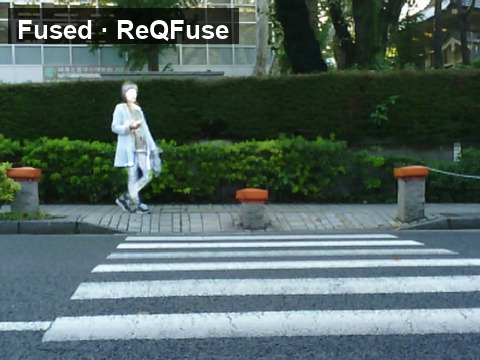
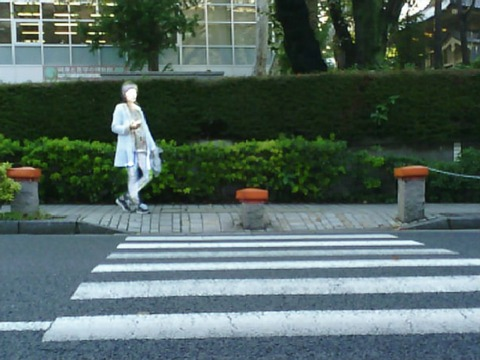
README: clean tabular results without text overlays
- Remove all burned-in labels from images; every panel is a plain photo
- Three pure markdown tables: night rain overview plus six visible and
  three infrared degradation conditions, larger centered images

Changed region(s): [[0.0, 0.0, 0.5, 0.1222]]

diff --git a/README.md b/README.md
@@ -9,10 +9,6 @@ trained once against a synthetic degradation pool, handles rain, snow, haze,
 noise, blur, low light, infrared striping and low contrast — no per-condition
 fine-tuning.
 
-<p align="center">
-  <img src="assets/teaser.jpg" width="920" alt="Clean visible | rainy visible | infrared | ReQFuse output (MSRS night scene)"/>
-</p>
-
 ## Fusion results
 
 All results are produced by the released recipe on the **MSRS test set with
@@ -20,28 +16,34 @@ synthetic degradations at medium severity (level 2)**, generated by
 [generate_degradation.py](generate_degradation.py). The same weights are used
 for every condition below.
 
+**Night scene `00004N` under rain** — the degraded pair goes in, one fused RGB comes out:
+
+| Clean visible | Rainy visible (input) | Infrared (input) | ReQFuse output |
+|:---:|:---:|:---:|:---:|
+| <img src="assets/results/night_clean_vi.jpg" width="230"/> | <img src="assets/results/night_rain_vi.jpg" width="230"/> | <img src="assets/results/night_ir.jpg" width="230"/> | <img src="assets/results/night_fused.jpg" width="230"/> |
+
 ### Degraded visible input (clean infrared paired)
 
 | Condition | Degraded visible (input) | Infrared (input) | ReQFuse output |
-|---|---|---|---|
-| **Rain** — coverage 5%, opacity 0.30 | <img src="assets/results/vi_rain_input.jpg" width="285"/> | <img src="assets/results/vi_rain_ir.jpg" width="285"/> | <img src="assets/results/vi_rain_fused.jpg" width="285"/> |
-| **Snow** — coverage 6%, opacity 0.70 | <img src="assets/results/vi_snow_input.jpg" width="285"/> | <img src="assets/results/vi_snow_ir.jpg" width="285"/> | <img src="assets/results/vi_snow_fused.jpg" width="285"/> |
-| **Haze** — β 1.0 | <img src="assets/results/vi_haze_input.jpg" width="285"/> | <img src="assets/results/vi_haze_ir.jpg" width="285"/> | <img src="assets/results/vi_haze_fused.jpg" width="285"/> |
-| **Noise** — σ 10 + Poisson | <img src="assets/results/vi_noise_input.jpg" width="285"/> | <img src="assets/results/vi_noise_ir.jpg" width="285"/> | <img src="assets/results/vi_noise_fused.jpg" width="285"/> |
-| **Blur** — 21×21, σ 2.0 | <img src="assets/results/vi_blur_input.jpg" width="285"/> | <img src="assets/results/vi_blur_ir.jpg" width="285"/> | <img src="assets/results/vi_blur_fused.jpg" width="285"/> |
-| **Low light** — γ 2.0 | <img src="assets/results/vi_low_light_input.jpg" width="285"/> | <img src="assets/results/vi_low_light_ir.jpg" width="285"/> | <img src="assets/results/vi_low_light_fused.jpg" width="285"/> |
+|:---|:---:|:---:|:---:|
+| **Rain** — coverage 5%, opacity 0.30 | <img src="assets/results/vi_rain_input.jpg" width="320"/> | <img src="assets/results/vi_rain_ir.jpg" width="320"/> | <img src="assets/results/vi_rain_fused.jpg" width="320"/> |
+| **Snow** — coverage 6%, opacity 0.70 | <img src="assets/results/vi_snow_input.jpg" width="320"/> | <img src="assets/results/vi_snow_ir.jpg" width="320"/> | <img src="assets/results/vi_snow_fused.jpg" width="320"/> |
+| **Haze** — β 1.0 | <img src="assets/results/vi_haze_input.jpg" width="320"/> | <img src="assets/results/vi_haze_ir.jpg" width="320"/> | <img src="assets/results/vi_haze_fused.jpg" width="320"/> |
+| **Noise** — σ 10 + Poisson | <img src="assets/results/vi_noise_input.jpg" width="320"/> | <img src="assets/results/vi_noise_ir.jpg" width="320"/> | <img src="assets/results/vi_noise_fused.jpg" width="320"/> |
+| **Blur** — 21×21, σ 2.0 | <img src="assets/results/vi_blur_input.jpg" width="320"/> | <img src="assets/results/vi_blur_ir.jpg" width="320"/> | <img src="assets/results/vi_blur_fused.jpg" width="320"/> |
+| **Low light** — γ 2.0 | <img src="assets/results/vi_low_light_input.jpg" width="320"/> | <img src="assets/results/vi_low_light_ir.jpg" width="320"/> | <img src="assets/results/vi_low_light_fused.jpg" width="320"/> |
 
 ### Degraded infrared input (clean visible paired)
 
 | Condition | Visible (input) | Degraded infrared (input) | ReQFuse output |
-|---|---|---|---|
-| **Noise** — σ 10 + Poisson | <img src="assets/results/ir_noise_vi.jpg" width="285"/> | <img src="assets/results/ir_noise_input.jpg" width="285"/> | <img src="assets/results/ir_noise_fused.jpg" width="285"/> |
-| **Stripe** — column σ 6 | <img src="assets/results/ir_stripe_vi.jpg" width="285"/> | <img src="assets/results/ir_stripe_input.jpg" width="285"/> | <img src="assets/results/ir_stripe_fused.jpg" width="285"/> |
-| **Low contrast** — gain 0.5 | <img src="assets/results/ir_low_contrast_vi.jpg" width="285"/> | <img src="assets/results/ir_low_contrast_input.jpg" width="285"/> | <img src="assets/results/ir_low_contrast_fused.jpg" width="285"/> |
+|:---|:---:|:---:|:---:|
+| **Noise** — σ 10 + Poisson | <img src="assets/results/ir_noise_vi.jpg" width="320"/> | <img src="assets/results/ir_noise_input.jpg" width="320"/> | <img src="assets/results/ir_noise_fused.jpg" width="320"/> |
+| **Stripe** — column σ 6 | <img src="assets/results/ir_stripe_vi.jpg" width="320"/> | <img src="assets/results/ir_stripe_input.jpg" width="320"/> | <img src="assets/results/ir_stripe_fused.jpg" width="320"/> |
+| **Low contrast** — gain 0.5 | <img src="assets/results/ir_low_contrast_vi.jpg" width="320"/> | <img src="assets/results/ir_low_contrast_input.jpg" width="320"/> | <img src="assets/results/ir_low_contrast_fused.jpg" width="320"/> |
 
-*Scene `00123D` (day) for the tables; the teaser above is night scene `00004N`
-under rain. Run [test.py](test.py) on `data/test_MSRS/<condition>/<level>/` to
-reproduce; per-condition outputs land in `results/`.*
+*The two tables use day scene `00123D`; the night table above uses `00004N`.
+Run [test.py](test.py) on `data/test_MSRS/<condition>/<level>/` to reproduce;
+per-condition outputs land in `results/`.*
 
 ## Method overview
 

diff --git a/README_zh-CN.md b/README_zh-CN.md
@@ -6,36 +6,38 @@ ReQFuse 先在各自模态内恢复图像，再估计恢复后的残留误差，
 最后由 Restormer 风格的融合网络输出融合结果。单一模型只针对合成退化池训练一次，
 即可应对雨、雪、雾、噪声、模糊、低光照、红外条纹与低对比度——无需按条件微调。
 
-<p align="center">
-  <img src="assets/teaser.jpg" width="920" alt="干净可见光 | 雨退化可见光 | 红外 | ReQFuse 输出（MSRS 夜景）"/>
-</p>
-
 ## 融合结果
 
 以下结果全部由同一份训练配方产生：**MSRS 测试集 + 人工合成退化，中等强度
 （level 2）**，由 [generate_degradation.py](generate_degradation.py) 生成。
 所有条件使用同一份模型权重。
 
+**夜景 `00004N` 雨条件**——输入退化图像对，直接输出融合 RGB：
+
+| 干净可见光 | 雨退化可见光（输入） | 红外（输入） | ReQFuse 输出 |
+|:---:|:---:|:---:|:---:|
+| <img src="assets/results/night_clean_vi.jpg" width="230"/> | <img src="assets/results/night_rain_vi.jpg" width="230"/> | <img src="assets/results/night_ir.jpg" width="230"/> | <img src="assets/results/night_fused.jpg" width="230"/> |
+
 ### 可见光退化输入（配对干净红外）
 
 | 条件 | 退化可见光（输入） | 红外（输入） | ReQFuse 输出 |
-|---|---|---|---|
-| **雨** — 覆盖 5%, α 0.30 | <img src="assets/results/vi_rain_input.jpg" width="285"/> | <img src="assets/results/vi_rain_ir.jpg" width="285"/> | <img src="assets/results/vi_rain_fused.jpg" width="285"/> |
-| **雪** — 覆盖 6%, α 0.70 | <img src="assets/results/vi_snow_input.jpg" width="285"/> | <img src="assets/results/vi_snow_ir.jpg" width="285"/> | <img src="assets/results/vi_snow_fused.jpg" width="285"/> |
-| **雾** — β 1.0 | <img src="assets/results/vi_haze_input.jpg" width="285"/> | <img src="assets/results/vi_haze_ir.jpg" width="285"/> | <img src="assets/results/vi_haze_fused.jpg" width="285"/> |
-| **噪声** — σ 10 + 泊松 | <img src="assets/results/vi_noise_input.jpg" width="285"/> | <img src="assets/results/vi_noise_ir.jpg" width="285"/> | <img src="assets/results/vi_noise_fused.jpg" width="285"/> |
-| **模糊** — 21×21, σ 2.0 | <img src="assets/results/vi_blur_input.jpg" width="285"/> | <img src="assets/results/vi_blur_ir.jpg" width="285"/> | <img src="assets/results/vi_blur_fused.jpg" width="285"/> |
-| **低光照** — γ 2.0 | <img src="assets/results/vi_low_light_input.jpg" width="285"/> | <img src="assets/results/vi_low_light_ir.jpg" width="285"/> | <img src="assets/results/vi_low_light_fused.jpg" width="285"/> |
+|:---|:---:|:---:|:---:|
+| **雨** — 覆盖 5%, α 0.30 | <img src="assets/results/vi_rain_input.jpg" width="320"/> | <img src="assets/results/vi_rain_ir.jpg" width="320"/> | <img src="assets/results/vi_rain_fused.jpg" width="320"/> |
+| **雪** — 覆盖 6%, α 0.70 | <img src="assets/results/vi_snow_input.jpg" width="320"/> | <img src="assets/results/vi_snow_ir.jpg" width="320"/> | <img src="assets/results/vi_snow_fused.jpg" width="320"/> |
+| **雾** — β 1.0 | <img src="assets/results/vi_haze_input.jpg" width="320"/> | <img src="assets/results/vi_haze_ir.jpg" width="320"/> | <img src="assets/results/vi_haze_fused.jpg" width="320"/> |
+| **噪声** — σ 10 + 泊松 | <img src="assets/results/vi_noise_input.jpg" width="320"/> | <img src="assets/results/vi_noise_ir.jpg" width="320"/> | <img src="assets/results/vi_noise_fused.jpg" width="320"/> |
+| **模糊** — 21×21, σ 2.0 | <img src="assets/results/vi_blur_input.jpg" width="320"/> | <img src="assets/results/vi_blur_ir.jpg" width="320"/> | <img src="assets/results/vi_blur_fused.jpg" width="320"/> |
+| **低光照** — γ 2.0 | <img src="assets/results/vi_low_light_input.jpg" width="320"/> | <img src="assets/results/vi_low_light_ir.jpg" width="320"/> | <img src="assets/results/vi_low_light_fused.jpg" width="320"/> |
 
 ### 红外退化输入（配对干净可见光）
 
 | 条件 | 可见光（输入） | 退化红外（输入） | ReQFuse 输出 |
-|---|---|---|---|
-| **噪声** — σ 10 + 泊松 | <img src="assets/results/ir_noise_vi.jpg" width="285"/> | <img src="assets/results/ir_noise_input.jpg" width="285"/> | <img src="assets/results/ir_noise_fused.jpg" width="285"/> |
-| **条纹** — 列 σ 6 | <img src="assets/results/ir_stripe_vi.jpg" width="285"/> | <img src="assets/results/ir_stripe_input.jpg" width="285"/> | <img src="assets/results/ir_stripe_fused.jpg" width="285"/> |
-| **低对比度** — 增益 0.5 | <img src="assets/results/ir_low_contrast_vi.jpg" width="285"/> | <img src="assets/results/ir_low_contrast_input.jpg" width="285"/> | <img src="assets/results/ir_low_contrast_fused.jpg" width="285"/> |
+|:---|:---:|:---:|:---:|
+| **噪声** — σ 10 + 泊松 | <img src="assets/results/ir_noise_vi.jpg" width="320"/> | <img src="assets/results/ir_noise_input.jpg" width="320"/> | <img src="assets/results/ir_noise_fused.jpg" width="320"/> |
+| **条纹** — 列 σ 6 | <img src="assets/results/ir_stripe_vi.jpg" width="320"/> | <img src="assets/results/ir_stripe_input.jpg" width="320"/> | <img src="assets/results/ir_stripe_fused.jpg" width="320"/> |
+| **低对比度** — 增益 0.5 | <img src="assets/results/ir_low_contrast_vi.jpg" width="320"/> | <img src="assets/results/ir_low_contrast_input.jpg" width="320"/> | <img src="assets/results/ir_low_contrast_fused.jpg" width="320"/> |
 
-*表格为白天场景 `00123D`；上方 teaser 为夜间场景 `00004N` 的雨条件。
+*下方两张表为白天场景 `00123D`；上方夜景表为 `00004N`。
 对 `data/test_MSRS/<条件>/<强度>/` 运行 [test.py](test.py) 即可复现，
 逐条件输出位于 `results/`。*
 
